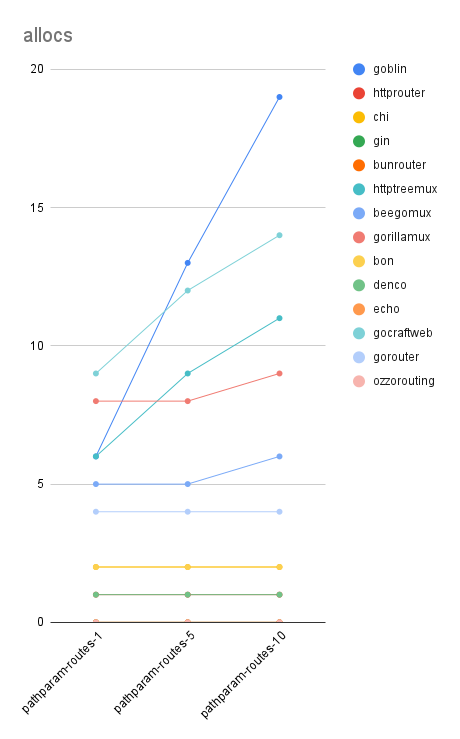
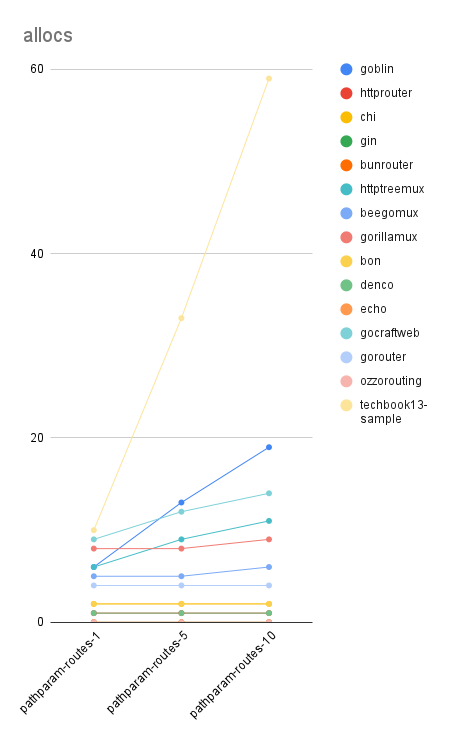
[update] images and benchmark results

diff --git a/README.md b/README.md
@@ -98,92 +98,96 @@ Benchmark results are published in a spreadsheet.
 
 ## Static routes
 ### time
-|    time     | static-routes-root | static-routes-1 | static-routes-5 | static-routes-10 |
-| ----------- | ------------------ | --------------- | --------------- | ---------------- |
-| servemux    | 24101668           | 20803911        | 12802896        | 8919028          |
-| goblin      | 36447806           | 17144642        | 5840305         | 3155595          |
-| httprouter  | 100000000          | 100000000       | 84698406        | 83383032         |
-| chi         | 5529261            | 5442328         | 5233761         | 5342503          |
-| gin         | 34119340           | 34670139        | 33786320        | 34107339         |
-| bunrouter   | 64181419           | 54405626        | 54746812        | 55535950         |
-| httptreemux | 6516063            | 6448729         | 5253651         | 4152639          |
-| beegomux    | 23423946           | 16189789        | 1000000         | 586872           |
-| gorillamux  | 2130843            | 2079057         | 1995946         | 1850852          |
-| bon         | 76976530           | 78365212        | 77670530        | 69186360         |
-| denco       | 78300441           | 71648206        | 71871530        | 71719041         |
-| echo        | 42333267           | 35916672        | 24450126        | 11766090         |
-| gocraftweb  | 1260608            | 1243606         | 1000000         | 903750           |
-| gorouter    | 30632953           | 23144054        | 15452823        | 8576277          |
-| ozzorouting | 36290733           | 33224583        | 26447349        | 19445872         |
+|       time        | static-routes-root | static-routes-1 | static-routes-5 | static-routes-10 |
+| ----------------- | ------------------ | --------------- | --------------- | ---------------- |
+| servemux          | 24301910           | 22053468        | 13324357        | 8851803          |
+| goblin            | 32296879           | 16738813        | 5753088         | 3111172          |
+| httprouter        | 100000000          | 100000000       | 100000000       | 72498970         |
+| chi               | 5396652            | 5350285         | 5353856         | 5415325          |
+| gin               | 34933861           | 34088810        | 34136852        | 33966028         |
+| bunrouter         | 63478486           | 54812665        | 53564055        | 54345159         |
+| httptreemux       | 6669231            | 6219157         | 5278312         | 4300488          |
+| beegomux          | 22320199           | 15369320        | 1000000         | 577272           |
+| gorillamux        | 1807042            | 2104210         | 1904696         | 1869037          |
+| bon               | 72425132           | 56830177        | 59573305        | 58364338         |
+| denco             | 90249313           | 92561344        | 89325312        | 73905086         |
+| echo              | 41742093           | 36207878        | 23962478        | 12379764         |
+| gocraftweb        | 1284613            | 1262863         | 1000000         | 889360           |
+| gorouter          | 21622920           | 28592134        | 15582778        | 9636147          |
+| ozzorouting       | 31406931           | 34989970        | 24825552        | 19431296         |
+| techbook13-sample | 8176849            | 6349896         | 2684418         | 1384840          |
 
 ![time.png](/images/static-routes/time.png)
 
 [Graph - time](https://docs.google.com/spreadsheets/d/e/2PACX-1vRiWBjJim4v_XyoN45s4VVQXD-PIBHKjyVfOv5OX37376SZ9GvL5bmqQegLl-5arBpD-3hhTKTEgkIj/pubchart?oid=800028423&format=interactive)
 
 ### nsop
-|    nsop     |           static-routes-root           | static-routes-root |           static-routes-1           | static-routes-1 |           static-routes-5           | static-routes-5 |           static-routes-10           | static-routes-10 |
-| ----------- | -------------------------------------- | ------------------ | ----------------------------------- | --------------- | ----------------------------------- | --------------- | ------------------------------------ | ---------------- |
-| servemux    | BenchmarkStaticRoutesRootServeMux-8    | 50                 | BenchmarkStaticRoutes1ServeMux-8    | 55.03           | BenchmarkStaticRoutes5ServeMux-8    | 96.2            | BenchmarkStaticRoutes10ServeMux-8    | 137.8            |
-| goblin      | BenchmarkStaticRoutesRootGoblin-8      | 34.09              | BenchmarkStaticRoutes1Goblin-8      | 67.76           | BenchmarkStaticRoutes5Goblin-8      | 201.9           | BenchmarkStaticRoutes10Goblin-8      | 377.6            |
-| httprouter  | BenchmarkStaticRoutesRootHTTPRouter-8  | 11.84              | BenchmarkStaticRoutes1HTTPRouter-8  | 10.63           | BenchmarkStaticRoutes5HTTPRouter-8  | 12.99           | BenchmarkStaticRoutes10HTTPRouter-8  | 12.97            |
-| chi         | BenchmarkStaticRoutesRootChi-8         | 232.7              | BenchmarkStaticRoutes1Chi-8         | 243.1           | BenchmarkStaticRoutes5Chi-8         | 248.3           | BenchmarkStaticRoutes10Chi-8         | 216.9            |
-| gin         | BenchmarkStaticRoutesRootGin-8         | 34.56              | BenchmarkStaticRoutes1Gin-8         | 37.7            | BenchmarkStaticRoutes5Gin-8         | 35.77           | BenchmarkStaticRoutes10Gin-8         | 35.13            |
-| bunrouter   | BenchmarkStaticRoutesRootBunRouter-8   | 19.39              | BenchmarkStaticRoutes1BunRouter-8   | 22.53           | BenchmarkStaticRoutes5BunRouter-8   | 22.03           | BenchmarkStaticRoutes10BunRouter-8   | 22.01            |
-| httptreemux | BenchmarkStaticRoutesRootHTTPTreeMux-8 | 206.6              | BenchmarkStaticRoutes1HTTPTreeMux-8 | 185.6           | BenchmarkStaticRoutes5HTTPTreeMux-8 | 239.6           | BenchmarkStaticRoutes10HTTPTreeMux-8 | 291.7            |
-| beegomux    | BenchmarkStaticRoutesRootBeegoMux-8    | 50.37              | BenchmarkStaticRoutes1BeegoMux-8    | 73.47           | BenchmarkStaticRoutes5BeegoMux-8    | 1086            | BenchmarkStaticRoutes10BeegoMux-8    | 2049             |
-| gorillamux  | BenchmarkStaticRoutesRootGorillaMux-8  | 560.8              | BenchmarkStaticRoutes1GorillaMux-8  | 575.7           | BenchmarkStaticRoutes5GorillaMux-8  | 642.5           | BenchmarkStaticRoutes10GorillaMux-8  | 691.8            |
-| bon         | BenchmarkStaticRoutesRootBon-8         | 15.43              | BenchmarkStaticRoutes1Bon-8         | 15.63           | BenchmarkStaticRoutes5Bon-8         | 15.85           | BenchmarkStaticRoutes10Bon-8         | 16.81            |
-| denco       | BenchmarkStaticRoutesRootDenco-8       | 14.9               | BenchmarkStaticRoutes1Denco-8       | 16.56           | BenchmarkStaticRoutes5Denco-8       | 16.77           | BenchmarkStaticRoutes10Denco-8       | 16.09            |
-| echo        | BenchmarkStaticRoutesRootEcho-8        | 28.04              | BenchmarkStaticRoutes1Echo-8        | 32.84           | BenchmarkStaticRoutes5Echo-8        | 49.97           | BenchmarkStaticRoutes10Echo-8        | 97.44            |
-| gocraftweb  | BenchmarkStaticRoutesRootGocraftWeb-8  | 923.2              | BenchmarkStaticRoutes1GocraftWeb-8  | 944.7           | BenchmarkStaticRoutes5GocraftWeb-8  | 1168            | BenchmarkStaticRoutes10GocraftWeb-8  | 1215             |
-| gorouter    | BenchmarkStaticRoutesRootGorouter-8    | 38.78              | BenchmarkStaticRoutes1Gorouter-8    | 50.27           | BenchmarkStaticRoutes5Gorouter-8    | 75.96           | BenchmarkStaticRoutes10Gorouter-8    | 147.9            |
-| ozzorouting | BenchmarkStaticRoutesRootOzzoRouting-8 | 32.8               | BenchmarkStaticRoutes1OzzoRouting-8 | 35.08           | BenchmarkStaticRoutes5OzzoRouting-8 | 47.33           | BenchmarkStaticRoutes10OzzoRouting-8 | 61.13            |
+|       nsop        | static-routes-root | static-routes-1 | static-routes-5 | static-routes-10 |
+| ----------------- | ------------------ | --------------- | --------------- | ---------------- |
+| servemux          | 50.44              | 54.97           | 89.81           | 135.2            |
+| goblin            | 36.63              | 69.9            | 205.2           | 382.7            |
+| httprouter        | 10.65              | 10.74           | 10.75           | 16.42            |
+| chi               | 217.2              | 220.1           | 216.7           | 221.5            |
+| gin               | 34.53              | 34.91           | 34.69           | 35.04            |
+| bunrouter         | 18.77              | 21.78           | 22.41           | 22               |
+| httptreemux       | 178.8              | 190.9           | 227.2           | 277.7            |
+| beegomux          | 55.07              | 74.69           | 1080            | 2046             |
+| gorillamux        | 595.7              | 572.8           | 626.5           | 643.3            |
+| bon               | 15.75              | 20.17           | 18.87           | 19.16            |
+| denco             | 14                 | 13.03           | 13.4            | 15.87            |
+| echo              | 28.17              | 32.83           | 49.82           | 96.77            |
+| gocraftweb        | 929.4              | 948.8           | 1078            | 1215             |
+| gorouter          | 55.16              | 37.64           | 76.6            | 124.1            |
+| ozzorouting       | 42.62              | 34.22           | 48.12           | 61.6             |
+| techbook13-sample | 146.1              | 188.4           | 443.5           | 867.8            |
 
 ![nsop.png](/images/static-routes/nsop.png)
 
 [Graph - nsop](https://docs.google.com/spreadsheets/d/e/2PACX-1vRiWBjJim4v_XyoN45s4VVQXD-PIBHKjyVfOv5OX37376SZ9GvL5bmqQegLl-5arBpD-3hhTKTEgkIj/pubchart?oid=1691114342&format=interactive)
 
 ### bop
-|     bop     | static-routes-root | static-routes-1 | static-routes-5 | static-routes-10 |
-| ----------- | ------------------ | --------------- | --------------- | ---------------- |
-| servemux    | 0                  | 0               | 0               | 0                |
-| goblin      | 0                  | 16              | 80              | 160              |
-| httprouter  | 0                  | 0               | 0               | 0                |
-| chi         | 304                | 304             | 304             | 304              |
-| gin         | 0                  | 0               | 0               | 0                |
-| bunrouter   | 0                  | 0               | 0               | 0                |
-| httptreemux | 328                | 328             | 328             | 328              |
-| beegomux    | 32                 | 32              | 32              | 32               |
-| gorillamux  | 720                | 720             | 720             | 720              |
-| bon         | 0                  | 0               | 0               | 0                |
-| denco       | 0                  | 0               | 0               | 0                |
-| echo        | 0                  | 0               | 0               | 0                |
-| gocraftweb  | 288                | 288             | 352             | 432              |
-| gorouter    | 0                  | 0               | 0               | 0                |
-| ozzorouting | 0                  | 0               | 0               | 0                |
+|        bop        | static-routes-root | static-routes-1 | static-routes-5 | static-routes-10 |
+| ----------------- | ------------------ | --------------- | --------------- | ---------------- |
+| servemux          | 0                  | 0               | 0               | 0                |
+| goblin            | 0                  | 16              | 80              | 160              |
+| httprouter        | 0                  | 0               | 0               | 0                |
+| chi               | 304                | 304             | 304             | 304              |
+| gin               | 0                  | 0               | 0               | 0                |
+| bunrouter         | 0                  | 0               | 0               | 0                |
+| httptreemux       | 328                | 328             | 328             | 328              |
+| beegomux          | 32                 | 32              | 32              | 32               |
+| gorillamux        | 720                | 720             | 720             | 720              |
+| bon               | 0                  | 0               | 0               | 0                |
+| denco             | 0                  | 0               | 0               | 0                |
+| echo              | 0                  | 0               | 0               | 0                |
+| gocraftweb        | 288                | 288             | 352             | 432              |
+| gorouter          | 0                  | 0               | 0               | 0                |
+| ozzorouting       | 0                  | 0               | 0               | 0                |
+| techbook13-sample | 304                | 308             | 432             | 872              |
 
 ![bop.png](/images/static-routes/bop.png)
 
 [Graph - bop](https://docs.google.com/spreadsheets/d/e/2PACX-1vRiWBjJim4v_XyoN45s4VVQXD-PIBHKjyVfOv5OX37376SZ9GvL5bmqQegLl-5arBpD-3hhTKTEgkIj/pubchart?oid=675738282&format=interactive)
 
 ### allocs
-|   allocs    | static-routes-root | static-routes-1 | static-routes-5 | static-routes-10 |
-| ----------- | ------------------ | --------------- | --------------- | ---------------- |
-| servemux    | 0                  | 0               | 0               | 0                |
-| goblin      | 0                  | 1               | 1               | 1                |
-| httprouter  | 0                  | 0               | 0               | 0                |
-| chi         | 2                  | 2               | 2               | 2                |
-| gin         | 0                  | 0               | 0               | 0                |
-| bunrouter   | 0                  | 0               | 0               | 0                |
-| httptreemux | 3                  | 3               | 3               | 3                |
-| beegomux    | 1                  | 1               | 1               | 1                |
-| gorillamux  | 7                  | 7               | 7               | 7                |
-| bon         | 0                  | 0               | 0               | 0                |
-| denco       | 0                  | 0               | 0               | 0                |
-| echo        | 0                  | 0               | 0               | 0                |
-| gocraftweb  | 6                  | 6               | 6               | 6                |
-| gorouter    | 0                  | 0               | 0               | 0                |
-| ozzorouting | 0                  | 0               | 0               | 0                |
+|      allocs       | static-routes-root | static-routes-1 | static-routes-5 | static-routes-10 |
+| ----------------- | ------------------ | --------------- | --------------- | ---------------- |
+| servemux          | 0                  | 0               | 0               | 0                |
+| goblin            | 0                  | 1               | 1               | 1                |
+| httprouter        | 0                  | 0               | 0               | 0                |
+| chi               | 2                  | 2               | 2               | 2                |
+| gin               | 0                  | 0               | 0               | 0                |
+| bunrouter         | 0                  | 0               | 0               | 0                |
+| httptreemux       | 3                  | 3               | 3               | 3                |
+| beegomux          | 1                  | 1               | 1               | 1                |
+| gorillamux        | 7                  | 7               | 7               | 7                |
+| bon               | 0                  | 0               | 0               | 0                |
+| denco             | 0                  | 0               | 0               | 0                |
+| echo              | 0                  | 0               | 0               | 0                |
+| gocraftweb        | 6                  | 6               | 6               | 6                |
+| gorouter          | 0                  | 0               | 0               | 0                |
+| ozzorouting       | 0                  | 0               | 0               | 0                |
+| techbook13-sample | 2                  | 3               | 11              | 21               |
 
 ![allocs.png](/images/static-routes/allocs.png)
 
@@ -191,88 +195,92 @@ Benchmark results are published in a spreadsheet.
 
 ## Pathparams routes
 ### time
-|    time     | pathparam-routes-1 | pathparam-routes-5 | pathparam-routes-10 |
-| ----------- | ------------------ | ------------------ | ------------------- |
-| goblin      | 1873453            | 507033             | 260714              |
-| httprouter  | 26311221           | 10168474           | 5970110             |
-| chi         | 4382772            | 2648826            | 1849846             |
-| gin         | 29532524           | 14766572           | 9653036             |
-| bunrouter   | 35877165           | 8573814            | 4150300             |
-| httptreemux | 3127624            | 1560525            | 784714              |
-| beegomux    | 3125070            | 767952             | 342159              |
-| gorillamux  | 1268805            | 489907             | 223706              |
-| bon         | 6451303            | 4559571            | 3263553             |
-| denco       | 19714711           | 8164539            | 4503146             |
-| echo        | 30035384           | 12032884           | 6730594             |
-| gocraftweb  | 930712             | 714529             | 452245              |
-| gorouter    | 4722282            | 3125533            | 2309708             |
-| ozzorouting | 23310682           | 12970110           | 7913998             |
+|       time        | pathparam-routes-1 | pathparam-routes-5 | pathparam-routes-10 |
+| ----------------- | ------------------ | ------------------ | ------------------- |
+| goblin            | 1802690            | 492392             | 252274              |
+| httprouter        | 25775940           | 10057874           | 6060843             |
+| chi               | 4337922            | 2687157            | 1772881             |
+| gin               | 29479381           | 15714673           | 9586220             |
+| bunrouter         | 37098772           | 8479642            | 3747968             |
+| httptreemux       | 2610324            | 1550306            | 706356              |
+| beegomux          | 3177818            | 797472             | 343969              |
+| gorillamux        | 1364386            | 470180             | 223627              |
+| bon               | 6639216            | 4486780            | 3285571             |
+| denco             | 20093167           | 8503317            | 4988640             |
+| echo              | 30667137           | 12028713           | 6721176             |
+| gocraftweb        | 921375             | 734821             | 466641              |
+| gorouter          | 4678617            | 3038450            | 2136946             |
+| ozzorouting       | 27126000           | 12228037           | 7923040             |
+| techbook13-sample | 3019774            | 917042             | 522897              |
 
 ![time.png](/images/pathparam-routes/time.png)
 
 [Graph - time](https://docs.google.com/spreadsheets/d/e/2PACX-1vRiWBjJim4v_XyoN45s4VVQXD-PIBHKjyVfOv5OX37376SZ9GvL5bmqQegLl-5arBpD-3hhTKTEgkIj/pubchart?oid=1039813866&format=interactive)
 
 ### nsop
-|    nsop     | pathparam-routes-1 | pathparam-routes-5 | pathparam-routes-10 |
-| ----------- | ------------------ | ------------------ | ------------------- |
-| goblin      | 630.4              | 2330               | 4384                |
-| httprouter  | 45.62              | 121.5              | 198.5               |
-| chi         | 273.6              | 504.2              | 644.3               |
-| gin         | 40.54              | 78.41              | 124                 |
-| bunrouter   | 33.25              | 139.5              | 288.4               |
-| httptreemux | 383.2              | 783                | 1515                |
-| beegomux    | 379.4              | 1447               | 3392                |
-| gorillamux  | 891.7              | 2287               | 5656                |
-| bon         | 189.1              | 264.3              | 370.1               |
-| denco       | 59.81              | 141.5              | 248                 |
-| echo        | 39.41              | 106.7              | 192                 |
-| gocraftweb  | 1148               | 1561               | 2489                |
-| gorouter    | 263.5              | 378.7              | 529.1               |
-| ozzorouting | 46.26              | 93.6               | 151                 |
+|       nsop        | pathparam-routes-1 | pathparam-routes-5 | pathparam-routes-10 |
+| ----------------- | ------------------ | ------------------ | ------------------- |
+| goblin            | 652.4              | 2341               | 4504                |
+| httprouter        | 45.73              | 117.4              | 204.2               |
+| chi               | 276.4              | 442.8              | 677.6               |
+| gin               | 40.21              | 76.39              | 124.3               |
+| bunrouter         | 32.52              | 141.1              | 317.2               |
+| httptreemux       | 399.7              | 778.5              | 1518                |
+| beegomux          | 377.2              | 1446               | 3398                |
+| gorillamux        | 850.3              | 2423               | 5264                |
+| bon               | 186.5              | 269.6              | 364.4               |
+| denco             | 60.47              | 139.4              | 238.7               |
+| echo              | 39.36              | 99.6               | 175.7               |
+| gocraftweb        | 1181               | 1540               | 2280                |
+| gorouter          | 256.4              | 393                | 557.6               |
+| ozzorouting       | 43.66              | 99.52              | 150.4               |
+| techbook13-sample | 380.7              | 1154               | 2150                |
 
 ![nsop.png](/images/pathparam-routes/nsop.png)
 
 [Graph - nsop](https://docs.google.com/spreadsheets/d/e/2PACX-1vRiWBjJim4v_XyoN45s4VVQXD-PIBHKjyVfOv5OX37376SZ9GvL5bmqQegLl-5arBpD-3hhTKTEgkIj/pubchart?oid=1534246873&format=interactive)
 
 ### bop
-|     bop     | pathparam-routes-1 | pathparam-routes-5 | pathparam-routes-10 |
-| ----------- | ------------------ | ------------------ | ------------------- |
-| goblin      | 409                | 961                | 1607                |
-| httprouter  | 32                 | 160                | 320                 |
-| chi         | 304                | 304                | 304                 |
-| gin         | 0                  | 0                  | 0                   |
-| bunrouter   | 0                  | 0                  | 0                   |
-| httptreemux | 680                | 904                | 1742                |
-| beegomux    | 672                | 672                | 1254                |
-| gorillamux  | 1024               | 1088               | 1751                |
-| bon         | 304                | 304                | 304                 |
-| denco       | 32                 | 160                | 320                 |
-| echo        | 0                  | 0                  | 0                   |
-| gocraftweb  | 656                | 944                | 1862                |
-| gorouter    | 360                | 488                | 648                 |
-| ozzorouting | 0                  | 0                  | 0                   |
+|        bop        | pathparam-routes-1 | pathparam-routes-5 | pathparam-routes-10 |
+| ----------------- | ------------------ | ------------------ | ------------------- |
+| goblin            | 409                | 962                | 1608                |
+| httprouter        | 32                 | 160                | 320                 |
+| chi               | 304                | 304                | 304                 |
+| gin               | 0                  | 0                  | 0                   |
+| bunrouter         | 0                  | 0                  | 0                   |
+| httptreemux       | 680                | 904                | 1742                |
+| beegomux          | 672                | 672                | 1254                |
+| gorillamux        | 1024               | 1088               | 1751                |
+| bon               | 304                | 304                | 304                 |
+| denco             | 32                 | 160                | 320                 |
+| echo              | 0                  | 0                  | 0                   |
+| gocraftweb        | 656                | 944                | 1862                |
+| gorouter          | 360                | 488                | 648                 |
+| ozzorouting       | 0                  | 0                  | 0                   |
+| techbook13-sample | 432                | 968                | 1792                |
 
 ![bop.png](/images/pathparam-routes/bop.png)
 
 [Graph - bop](https://docs.google.com/spreadsheets/d/e/2PACX-1vRiWBjJim4v_XyoN45s4VVQXD-PIBHKjyVfOv5OX37376SZ9GvL5bmqQegLl-5arBpD-3hhTKTEgkIj/pubchart?oid=73824357&format=interactive)
 
 ### allocs
-|   allocs    | pathparam-routes-1 | pathparam-routes-5 | pathparam-routes-10 |
-| ----------- | ------------------ | ------------------ | ------------------- |
-| goblin      | 6                  | 13                 | 19                  |
-| httprouter  | 1                  | 1                  | 1                   |
-| chi         | 2                  | 2                  | 2                   |
-| gin         | 0                  | 0                  | 0                   |
-| bunrouter   | 0                  | 0                  | 0                   |
-| httptreemux | 6                  | 9                  | 11                  |
-| beegomux    | 5                  | 5                  | 6                   |
-| gorillamux  | 8                  | 8                  | 9                   |
-| bon         | 2                  | 2                  | 2                   |
-| denco       | 1                  | 1                  | 1                   |
-| echo        | 0                  | 0                  | 0                   |
-| gocraftweb  | 9                  | 12                 | 14                  |
-| gorouter    | 4                  | 4                  | 4                   |
-| ozzorouting | 0                  | 0                  | 0                   |
+|      allocs       | pathparam-routes-1 | pathparam-routes-5 | pathparam-routes-10 |
+| ----------------- | ------------------ | ------------------ | ------------------- |
+| goblin            | 6                  | 13                 | 19                  |
+| httprouter        | 1                  | 1                  | 1                   |
+| chi               | 2                  | 2                  | 2                   |
+| gin               | 0                  | 0                  | 0                   |
+| bunrouter         | 0                  | 0                  | 0                   |
+| httptreemux       | 6                  | 9                  | 11                  |
+| beegomux          | 5                  | 5                  | 6                   |
+| gorillamux        | 8                  | 8                  | 9                   |
+| bon               | 2                  | 2                  | 2                   |
+| denco             | 1                  | 1                  | 1                   |
+| echo              | 0                  | 0                  | 0                   |
+| gocraftweb        | 9                  | 12                 | 14                  |
+| gorouter          | 4                  | 4                  | 4                   |
+| ozzorouting       | 0                  | 0                  | 0                   |
+| techbook13-sample | 10                 | 33                 | 59                  |
 
 ![allocs.png](/images/pathparam-routes/allocs.png)
 
